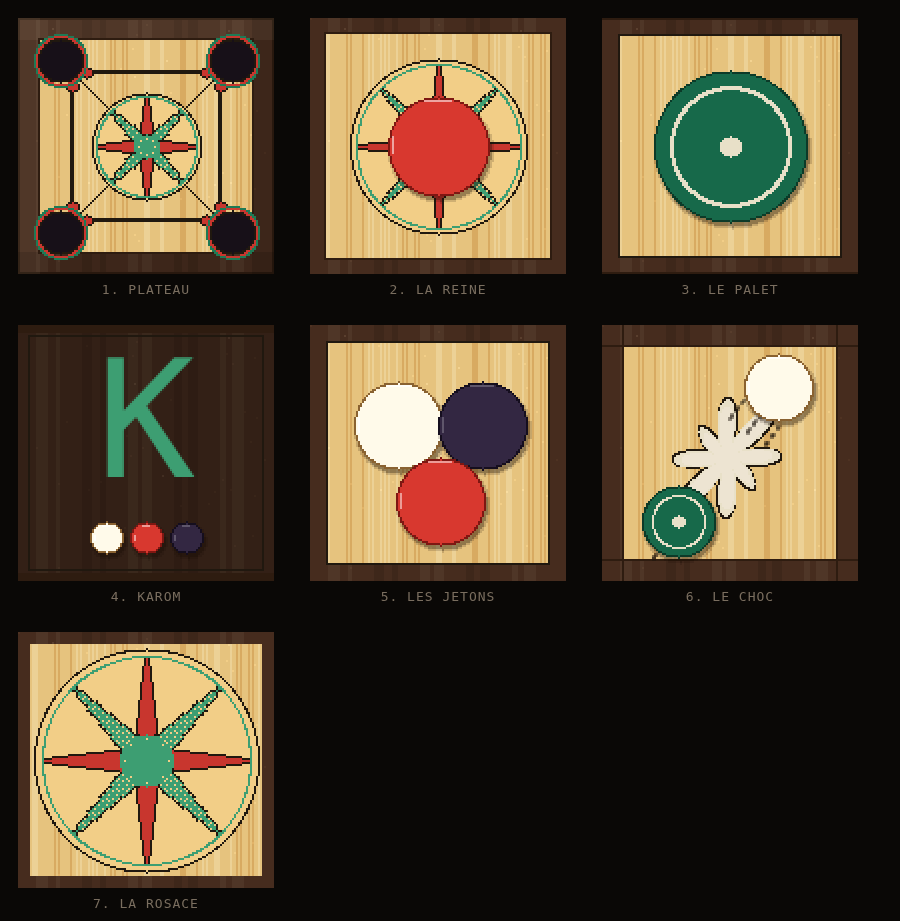
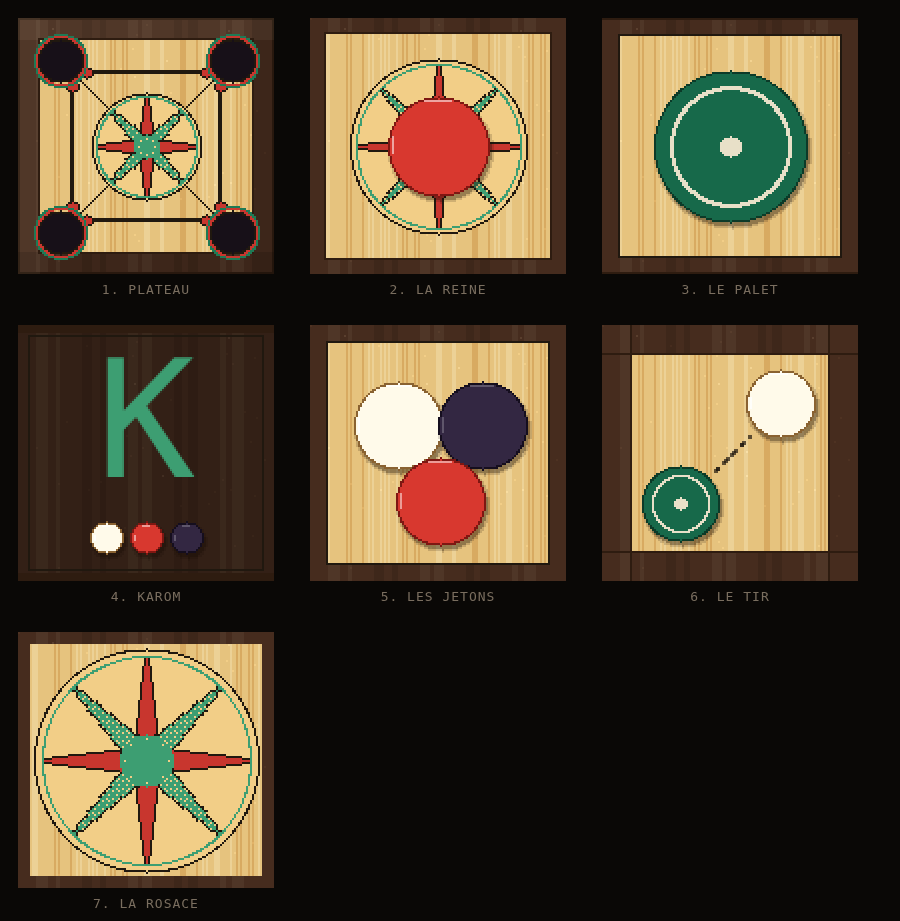
Icône du tir : retour au visuel d'origine, sans la poche
L'étoile d'impact est abandonnée. On revient au tir tel qu'il était — le
palet, le jeton et la trajectoire pointillée — débarrassé de la poche du
coin. Les deux pions se placent maintenant à écart égal de part et d'autre
du centre, la trajectoire courant entre eux.

Claude-Session: https://claude.ai/code/session_01P1kGgqf4yKwvjTgi27QtYv

Changed region(s): [[0.6844, 0.3648, 0.9333, 0.6384], [0.7778, 0.6384, 0.84, 0.6688]]

diff --git a/visuels/icones.html b/visuels/icones.html
@@ -196,54 +196,25 @@ PISTES.push({nom:'LES JETONS', f(g){
   jeton(g,65,88,22,P.qPiece,P.qEdge,'rgba(255,255,255,.5)');
 }});
 
-/* 6 - le tir : l'instant du choc, sans poche */
-PISTES.push({nom:'LE CHOC', f(g){
+/* 6 - le tir : le palet part vers le jeton, les deux centres dans le cadre */
+PISTES.push({nom:'LE TIR', f(g){
   tapis(g,0,0,N,N);
-  bois(g,0,0,N,10); bois(g,0,0,10,N); bois(g,N-10,0,10+N,N); bois(g,0,N-10,N,N);
-  g.fillStyle=P.woodLo; g.fillRect(0,10,N,1); g.fillRect(10,0,1,N);
-  g.fillStyle=P.woodLo; g.fillRect(0,N-11,N,1); g.fillRect(N-11,0,1,N);
-
-  /* l'axe du coup : du palet, en bas a gauche, vers le jeton chasse */
-  const ax=0.60, ay=-0.80;                 /* direction du tir, normalisee */
-  const cx=62, cy=66;                      /* point de contact */
-
-  /* elan du palet : trainee pointillee derriere lui */
-  for(let t=42;t<64;t++){ if(t%6>2) continue;
-    g.fillStyle='rgba(32,24,15,.55)';
-    g.fillRect(Math.round(cx-ax*t),Math.round(cy-ay*t),2,2); }
-
-  /* le choc : une etoile pleine, etiree dans l'axe du coup.
-     Pleine et non rayonnante, sinon elle disparait a la reduction. */
-  const rayon=(a)=>{
-    const ux=Math.cos(a), uy=Math.sin(a);
-    const aligne=Math.abs(ux*ax+uy*ay);            /* 1 dans l'axe, 0 en travers */
-    const dehors=17+15*aligne, dedans=9;
-    return dedans+(dehors-dedans)*Math.pow(Math.abs(Math.cos(4*a)),1.3);
+  bois(g,0,0,N,14); bois(g,0,0,14,N); bois(g,N-14,0,14+N,N); bois(g,0,N-14,N,N);
+  g.fillStyle=P.woodLo; g.fillRect(0,14,N,1); g.fillRect(14,0,1,N);
+  g.fillStyle=P.woodLo; g.fillRect(0,N-15,N,1); g.fillRect(N-15,0,1,N);
+  /* trajectoire pointillee, d'un jeton a l'autre */
+  const pointille=(x0,y0,x1,y1,d0,d1)=>{
+    const dx=x1-x0, dy=y1-y0, L=Math.hypot(dx,dy);
+    for(let t=d0;t<L-d1;t+=1){ if(t%6>2) continue;
+      g.fillStyle='rgba(32,24,15,.70)';
+      g.fillRect(Math.round(x0+dx/L*t),Math.round(y0+dy/L*t),2,2); }
   };
-  for(let a=0;a<Math.PI*2;a+=0.004){               /* balayage : remplit l'etoile */
-    const ux=Math.cos(a), uy=Math.sin(a), r=rayon(a);
-    g.fillStyle=P.ink;
-    g.fillRect(Math.round(cx+ux*(r+1)),Math.round(cy+uy*(r+1)),1,1);
-    for(let t=0;t<r;t+=0.5){
-      g.fillStyle = t<r-3 ? P.pale : P.sRed;
-      g.fillRect(Math.round(cx+ux*t),Math.round(cy+uy*t),1,1);
-    }
-  }
-
-  /* le jeton chasse, deja parti dans l'axe, avec ses lignes de vitesse */
-  const jx=Math.round(cx+ax*44), jy=Math.round(cy+ay*44);
-  for(const o of [-11,0,11]){
-    const nx=-ay, ny=ax;
-    for(let t=16;t<30;t++){ if(t%5>2) continue;
-      g.fillStyle='rgba(32,24,15,.45)';
-      g.fillRect(Math.round(jx-ax*t+nx*o),Math.round(jy-ay*t+ny*o),2,2); }
-  }
+  /* la paire se centre sur le cadre : meme ecart de part et d'autre du milieu */
+  const ec=25, px=N/2-ec, py=N/2+ec, jx=N/2+ec, jy=N/2-ec;
+  pointille(px,py,jx,jy,24,22);
   jeton(g,jx,jy,17,P.wPiece,P.wEdge,'rgba(255,255,255,.75)');
-
-  /* le palet, en retrait sur l'axe */
-  const px=Math.round(cx-ax*40), py=Math.round(cy-ay*40);
-  jeton(g,px,py,18,P.sBody,P.sEdge,null);
-  pring(g,px,py,13,P.sRed); pcircle(g,px,py,3,P.sRed);
+  jeton(g,px,py,19,P.sBody,P.sEdge,null);
+  pring(g,px,py,14,P.sRed); pcircle(g,px,py,3,P.sRed);
 }});
 
 /* 7 - la rosace seule, plein cadre */

diff --git a/visuels/apercu.html b/visuels/apercu.html
@@ -15,8 +15,8 @@
 <h1>Taille reelle sur un ecran d'accueil</h1>
 <div class="rangee" id="r"></div>
 <script>
-const fic=['plateau','reine','palet','monogramme','jetons','choc','rosace'];
-const noms=['PLATEAU','LA REINE','LE PALET','MONOGRAMME','LES JETONS','LE CHOC','LA ROSACE'];
+const fic=['plateau','reine','palet','monogramme','jetons','tir','rosace'];
+const noms=['PLATEAU','LA REINE','LE PALET','MONOGRAMME','LES JETONS','LE TIR','LA ROSACE'];
 const r=document.getElementById('r');
 noms.forEach((n,i)=>{
   const d=document.createElement('div'); d.className='app';

diff --git a/visuels/README.md b/visuels/README.md
@@ -13,7 +13,7 @@ plateau. Chaque fichier est un master de 1024×1024, tracé sur une grille de
 | 3 | `icone-3-palet.png` | Le palet vert, l'objet que l'on lance. Le plus simple. |
 | 4 | `icone-4-monogramme.png` | Un K en Jersey sur bois, avec les trois jetons. |
 | 5 | `icone-5-jetons.png` | Les trois jetons du jeu : clair, foncé, reine. |
-| 6 | `icone-6-choc.png` | L'instant du choc : le palet frappe, l'étoile d'impact éclate, le jeton part. Sans poche. |
+| 6 | `icone-6-tir.png` | Le palet vise un jeton, trajectoire pointillée entre les deux. La paire est centrée dans le cadre. |
 | 7 | `icone-7-rosace.png` | La rosace seule, plein cadre. Emblème abstrait. |
 
 - `planche.png` — les sept côte à côte, en grand
